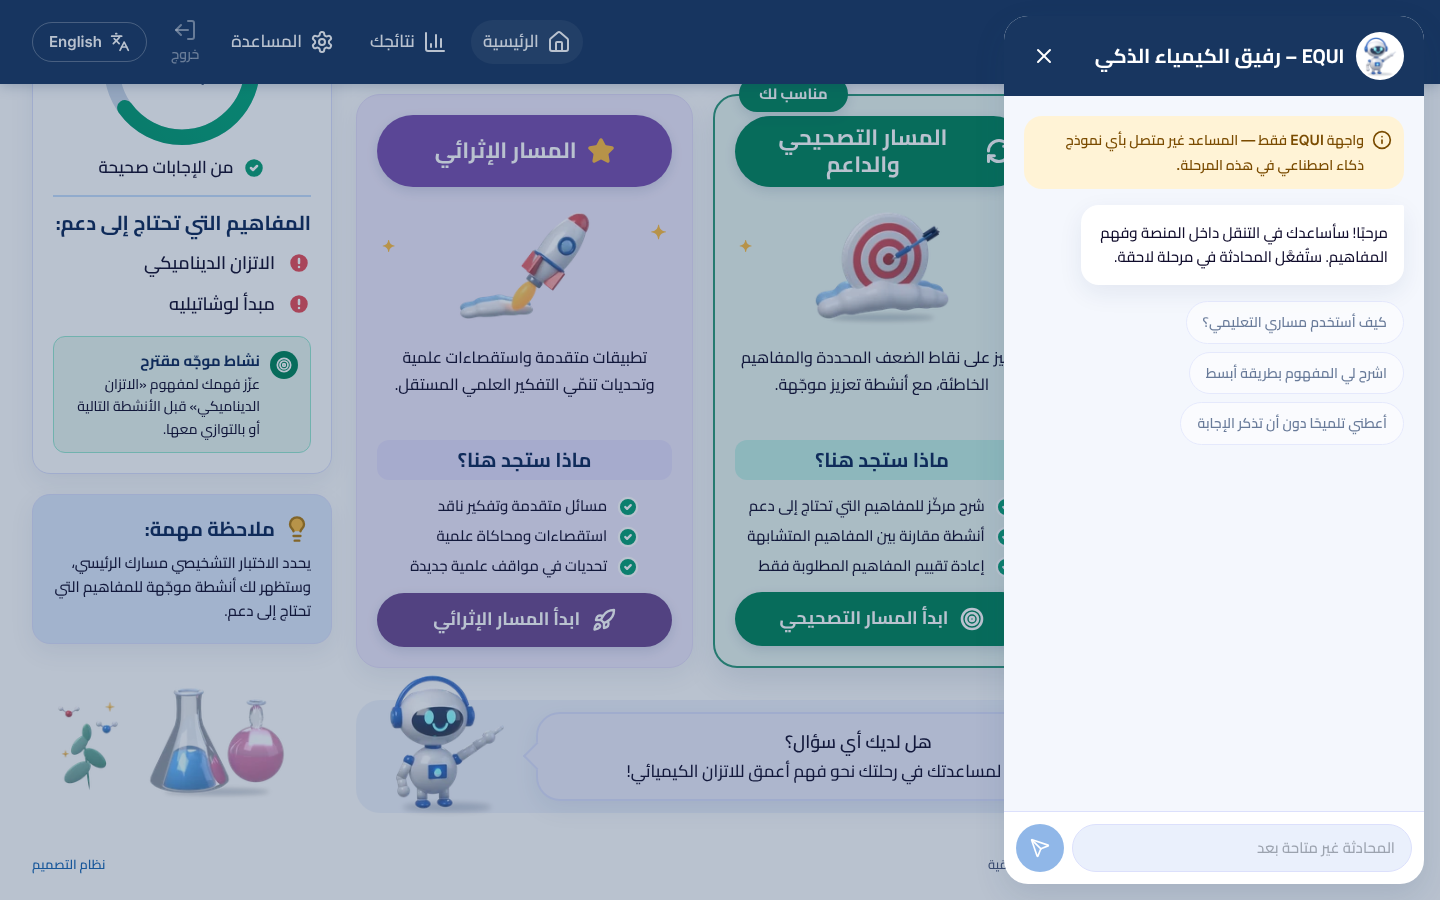
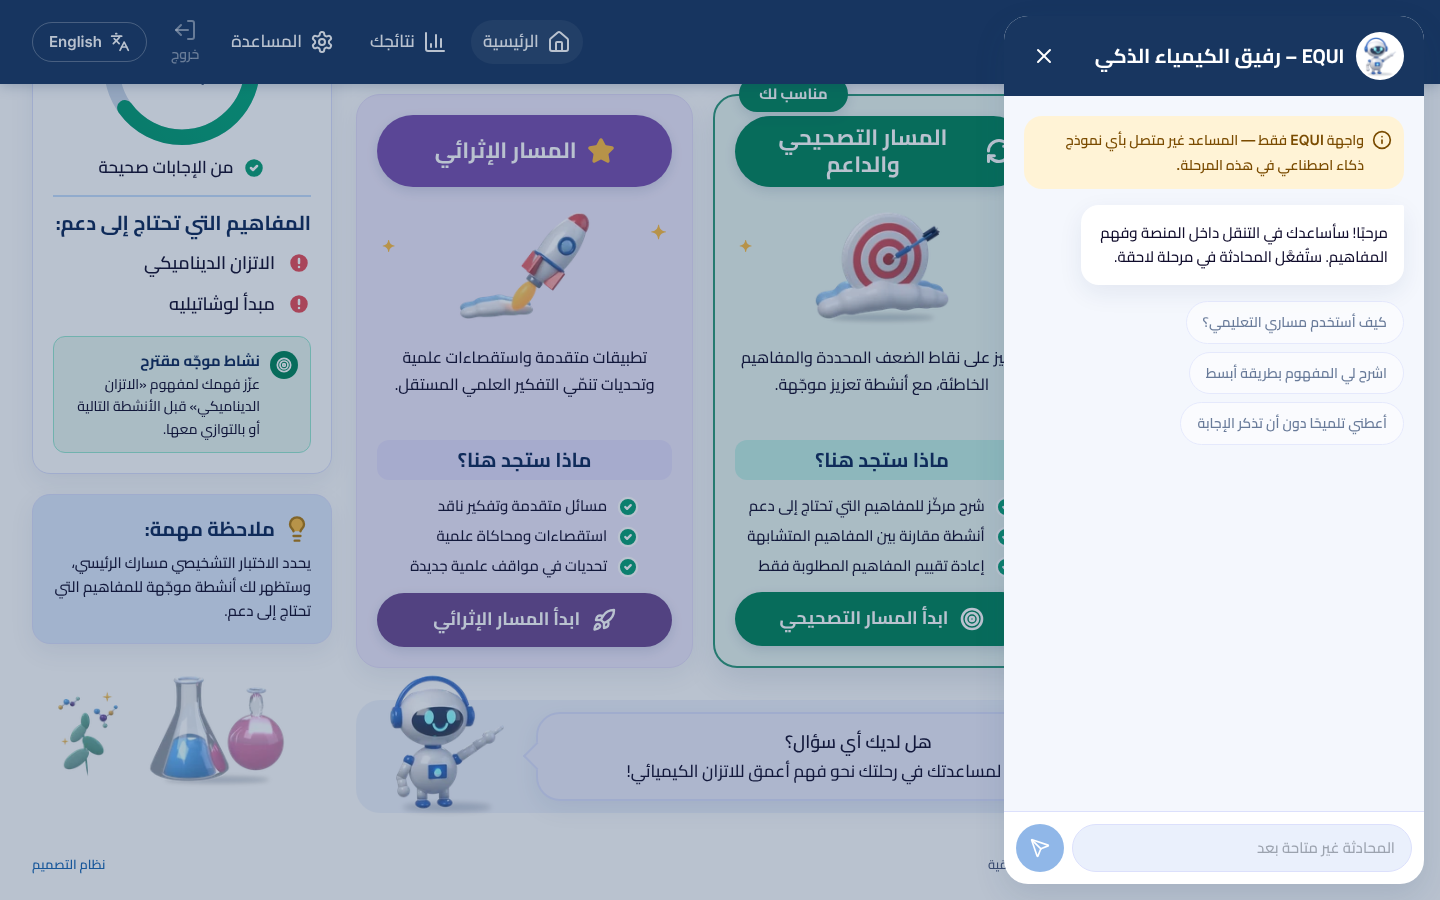
Abstract decorative molecules; refresh final Stage 2 screenshots
- science-decor re-rendered: water-like molecules replaced with abstract,
  scientifically neutral shapes in palette colours
- Asset manifest updated (glassware decorative; new decor checksum)
- Final comparisons, contact sheet, mobile and design-system screenshots

Claude-Session: https://claude.ai/code/session_01TD43pZiPUuwCExi8VCKunn

Changed region(s): [[0.0312, 0.7467, 0.2188, 0.9022]]

diff --git a/design/3d-source/decor.py b/design/3d-source/decor.py
@@ -14,19 +14,50 @@ for (z, side, ang, size, m) in [(0.6, -1, 55, 0.95, leaf_mat), (1.15, 1, -50, 0.
     l.rotation_euler = (0, math.radians(ang), 0)
     S.smooth(l, 1); S.assign(l, m)
 
-# small ball-and-stick molecules (decorative only — not a specific reaction)
-def molecule(center, r=0.16, color_a='blue_mid', color_b='white'):
-    a = S.add('sphere', radius=r, segments=32, ring_count=16, location=center)
-    S.smooth(a, 1); S.assign(a, S.mat(color_a, rough=0.25, coat=0.9))
-    for dx, dz in [(0.32, 0.18), (-0.3, 0.2)]:
-        b = S.add('sphere', radius=r * 0.65, segments=32, ring_count=16, location=(center[0] + dx, center[1], center[2] + dz))
-        S.smooth(b, 1); S.assign(b, S.mat(color_b, rough=0.25, coat=0.9))
-        s = S.add('cyl', radius=r * 0.18, depth=0.3, vertices=16, location=(center[0] + dx / 2, center[1], center[2] + dz / 2),
-                  rotation=(0, math.atan2(dx, dz), 0))
-        S.smooth(s, 0); S.assign(s, S.mat('#DCE6F5', rough=0.3, coat=0.5))
+# Abstract, scientifically neutral molecular shapes (decorative only).
+# - Irregular, non-planar branching that matches no common real molecule.
+# - Palette colours (lavender, gold, sky, mint) instead of the standard CPK element
+#   colours, so no atom reads as a specific element.
+def node(loc, r, color):
+    o = S.add('sphere', radius=r, segments=32, ring_count=16, location=loc)
+    S.smooth(o, 1); S.assign(o, S.mat(color, rough=0.25, coat=0.9))
+    return o
 
-molecule((0.75, -0.1, 2.45))
-molecule((-0.7, -0.1, 3.05), r=0.13, color_a='coral')
+
+def bond(p, q, r=0.028):
+    from mathutils import Vector
+    a, b = Vector(p), Vector(q)
+    c = S.add('cyl', radius=r, depth=(b - a).length, vertices=16, location=(a + b) / 2)
+    c.rotation_euler = (b - a).to_track_quat('Z', 'Y').to_euler()
+    S.smooth(c, 0); S.assign(c, S.mat('#DCE6F5', rough=0.3, coat=0.5))
+
+
+def abstract_molecule(center, nodes):
+    """nodes: list of (offset, radius, colour, parent_index or None)."""
+    from mathutils import Vector
+    pts = []
+    for off, r, col, parent in nodes:
+        p = Vector(center) + Vector(off)
+        node(p, r, col)
+        if parent is not None:
+            bond(pts[parent], p)
+        pts.append(p)
+
+# Molecule A — irregular branched cluster: hub with three unequal arms, one arm extended.
+abstract_molecule((0.72, -0.1, 2.45), [
+    ((0, 0, 0), 0.15, 'purple', None),
+    ((0.3, -0.08, 0.2), 0.1, 'gold', 0),
+    ((-0.24, 0.1, 0.26), 0.12, 'blue_light', 0),
+    ((0.05, -0.12, -0.3), 0.09, 'mint', 0),
+    ((0.52, 0.05, 0.42), 0.075, 'blue_light', 1),
+])
+# Molecule B — short zig-zag chain of four unequal nodes, twisted out of plane.
+abstract_molecule((-0.72, -0.1, 3.0), [
+    ((-0.28, 0, -0.1), 0.085, 'gold', None),
+    ((-0.06, -0.1, 0.12), 0.12, 'blue_light', 0),
+    ((0.2, 0.08, 0.02), 0.1, 'purple', 1),
+    ((0.4, -0.06, 0.24), 0.075, 'mint', 2),
+])
 S.four_point_star((0.85, -0.2, 3.3), size=0.2)
 S.four_point_star((-0.85, -0.2, 1.55), size=0.15)
 
